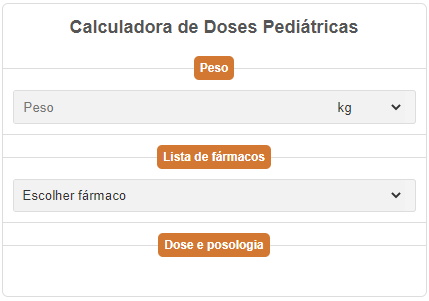
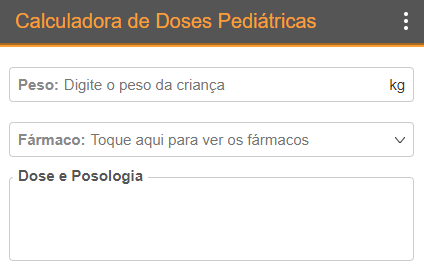
Substitui as imagens do Doseador de ARVs e da Calculadora de doses da página de Portfólio.

Changed region(s): [[0.0, 0.0, 1.0, 0.9851]]

diff --git a/paginas/portfolio.html b/paginas/portfolio.html
@@ -6,15 +6,15 @@
         <meta name="viewport" content="width=device-width, initial-scale=1.0">
         <title>Portfólio - Adérito Félix Quinamine</title>
         <meta name="robots" content="index, follow"/>
-        <meta name="description" content="Projectos - Totalizador de Resumo Mensal de Consultas, Totalizador de Resumo Mensal de HIV/SIDA, Doseador de Antirretrovirais, Calculadora de Doses Pediátricas." />
-        <meta name="keywords" content="Portfólio, Portfólio como Desenvolvedor Web, Projectos Web, Projectos de Programação, Totalizador de Resumo Mensal de Consultas, Totalizador de Resumo Mensal de HIV/SIDA, Doseador de Antirretrovirais, Calculadora de Doses Pediátricas" />
+        <meta name="description" content="Projectos - Totalizador de Resumo Mensal de Consultas, Totalizador de Resumo Mensal de HIV/SIDA, Totalizador de Resumo Mensal de SAAJ, Doseador de Antirretrovirais, Calculadora de Doses Pediátricas." />
+        <meta name="keywords" content="Portfólio, Portfólio como Desenvolvedor Web, Projectos Web, Projectos de Programação, Totalizador de Resumo Mensal de Consultas, Totalizador de Resumo Mensal de HIV/SIDA, Totalizador de Resumo Mensal de SAAJ, Doseador de Antirretrovirais, Calculadora de Doses Pediátricas" />
         <meta name="author" content="Adérito Félix Quinamine" />
 
         <!-- PARTILHA NAS REDES SOCIAIS -->
         <meta property="og:url" content="https://www.quinamine.github.io/aderito-felix-quinamine/paginas/curriculumvitae.html"/>
-        <meta property="og:title" content="Portfólio" />
-        <meta property="og:description" content="Projectos - Totalizador de Resumo Mensal de Consultas, Totalizador de Resumo Mensal de HIV/SIDA, Doseador de Antirretrovirais, Calculadora de Doses Pediátricas." />
-        <meta property="og:image" content="https://www.quinamine.github.io/aderito-felix-quinamine/imagens/#.png"/>
+        <meta property="og:title" content="Portfólio - Adérito Félix Quinamine" />
+        <meta property="og:description" content="Projectos - Totalizador de Resumo Mensal de Consultas, Totalizador de Resumo Mensal de HIV/SIDA, Totalizador de Resumo Mensal de SAAJ, Doseador de Antirretrovirais, Calculadora de Doses Pediátricas." />
+        <meta property="og:image" content="https://www.quinamine.github.io/aderito-felix-quinamine/imagens/totalizador-de-resumo-mensal-de-consultas.png"/>
        
         <!-- DESIGN -->
 		<link rel="stylesheet" href="../design/reset.css" />
@@ -62,7 +62,7 @@
                         <p>
                             <a href="https://quinamine.github.io/totalizador-de-resumo-mensal-de-saaj/index.html#sobre" target="_blank">Serviço online gratuito que auxilia na elaboração do resumo mensal de SAAJ, através do cálculo automático dos totais a partir dos dados inseridos pelo usuário (Profissional de Saúde. <span class="read-more">Ler&nbsp;mais...&raquo;</span></a>
                         </p>
-                        <a href="https://quinamine.github.io/totalizador-de-resumo-mensal-de-hiv-e-sida/index.html" target="_blank">Acessar Totalizador &raquo;</a>
+                        <a href="https://quinamine.github.io/totalizador-de-resumo-mensal-de-saaj/index.html" target="_blank">Acessar Totalizador &raquo;</a>
                     </div>
                 </section>
 
@@ -108,7 +108,7 @@
 
                     <a href="https://quinamine.github.io/tarv-pediatrico/index.html" target="_blank">
                         <figure>
-                            <img src="../imagens/doseador-de-arvs.png" alt="Doseador de Antirretrovirais"/>
+                            <img src="../imagens/doseador-de-arvs.png" alt="Doseador de Antirretrovirais" class="border-1"/>
                         </figure>
                     </a>  
                     <div class="description">   
@@ -125,7 +125,7 @@
 
                     <a href="https://quinamine.github.io/calculadora-de-doses-pediatricas/index.html" target="_blank">
                         <figure>
-                            <img src="../imagens/calculadora-de-doses.png" alt="Calculadora de Doses Pediátricas"/>
+                            <img src="../imagens/calculadora-de-doses.png" alt="Calculadora de Doses Pediátricas" class="border-1"/>
                         </figure> 
                     </a>
                     
@@ -140,17 +140,17 @@
             <aside>
                 <h3>Formação Académica</h3>
                 <ul>
-                    <li><b>2014</b> – Concluiu a 12ª – classe do SNE na Escola Secundária de Pemba;</li>
-                    <li><b>2012</b> – Concluiu o Nível Básico (10ª – Classe) do SNE na Escola Secundária de Pemba;</li>
-                    <li><b>2009</b> – Concluiu a 7ª – classe na Escola Primária Completa de Mulapane.</li>
+                    <li><b>2014</b> – concluiu a 12ª classe do SNE na Escola Secundária de Pemba;</li>
+                    <li><b>2012</b> – concluiu o nível básico (10ª classe) do SNE na Escola Secundária de Pemba;</li>
+                    <li><b>2009</b> – concluiu a 7ª classe na Escola Primária Completa de Mulapane.</li>
                 </ul>
                 <h3>Formação Profissional</h3>
                 <ul>
-                    <li><b>2018</b> - Concluiu o curso de Técnicos de Medicina Geral (Nível Médio) no CFPS-Natite em Pemba.</li>
+                    <li><b>2018</b> - concluiu o curso de Técnicos de Medicina Geral (Nível Médio) no CFPS-Natite em Pemba.</li>
                 </ul>
                 <h3>Curso(s) de curta duração</h3>
                 <ul>
-                    <li><b>2014</b> - Frequentou o curso de Informática Básica na GAJM Consultores.</li>
+                    <li><b>2014</b> - frequentou o curso de Informática básica na GAJM Consultores.</li>
                 </ul>
             </aside>
         </main>
@@ -204,9 +204,14 @@
                     <h4>Projectos</h4>
                     <ul>
                         <li><a href="https://quinamine.github.io/totalizador-de-resumo-mensal-de-consultas/index.html" target="_blank">Totalizador de Resumo Mensal de Consultas</a></li>
+
                         <li><a href="https://quinamine.github.io/totalizador-de-resumo-mensal-de-hiv-e-sida/index.html" target="_blank">Totalizador de Resumo Mensal de HIV/SIDA</a></li>
+
+                        <li><a href="https://quinamine.github.io/totalizador-de-resumo-mensal-de-saaj/index.html" target="_blank">Totalizador de Resumo Mensal de SAAJ</a></li>
+
                         <li><a href="https://quinamine.github.io/tarv-pediatrico/index.html" target="_blank">Doseador de Antirretrovirais</a></li>
-                        <li><a href="https://quinamine.github.io/calculadora-de-doses-pediatricas/index.html" target="_blank">Calculadora de Doses Pediátricas</a></li>
+                        
+                        <li class="sem-margem"><a href="https://quinamine.github.io/calculadora-de-doses-pediatricas/index.html" target="_blank">Calculadora de Doses Pediátricas</a></li>
                     </ul>
                 </div>
             </div>

diff --git a/paginas/curriculumvitae.html b/paginas/curriculumvitae.html
@@ -12,7 +12,7 @@
 
         <!-- PARTILHA NAS REDES SOCIAIS -->
         <meta property="og:url" content="https://www.quinamine.github.io/aderito-felix-quinamine/paginas/curriculumvitae.html"/>
-        <meta property="og:title" content="Curriculum Vitae" />
+        <meta property="og:title" content="Curriculum Vitae - Adérito Félix Quinamine" />
         <meta property="og:description" content="2018 - Concluiu o curso de Técnicos de Medicina Geral (Nível Médio) no Centro de Formação de Saúde de Natite em Pemba." />
         <meta property="og:image" content="https://www.quinamine.github.io/aderito-felix-quinamine/imagens/certificado-de-tmg.png"/>
        
@@ -109,17 +109,17 @@
             <aside>
                 <h3>Formação Académica</h3>
                 <ul>
-                    <li><b>2014</b> – Concluiu a 12ª – classe do SNE na Escola Secundária de Pemba;</li>
-                    <li><b>2012</b> – Concluiu o Nível Básico (10ª – Classe) do SNE na Escola Secundária de Pemba;</li>
-                    <li><b>2009</b> – Concluiu a 7ª – classe na Escola Primária Completa de Mulapane.</li>
+                    <li><b>2014</b> – concluiu a 12ª classe do SNE na Escola Secundária de Pemba;</li>
+                    <li><b>2012</b> – concluiu o nível básico (10ª classe) do SNE na Escola Secundária de Pemba;</li>
+                    <li><b>2009</b> – concluiu a 7ª classe na Escola Primária Completa de Mulapane.</li>
                 </ul>
                 <h3>Formação Profissional</h3>
                 <ul>
-                    <li><b>2018</b> - Concluiu o curso de Técnicos de Medicina Geral (Nível Médio) no CFPS-Natite em Pemba.</li>
+                    <li><b>2018</b> - concluiu o curso de Técnicos de Medicina Geral (Nível Médio) no CFPS-Natite em Pemba.</li>
                 </ul>
                 <h3>Curso(s) de curta duração</h3>
                 <ul>
-                    <li><b>2014</b> - Frequentou o curso de Informática Básica na GAJM Consultores.</li>
+                    <li><b>2014</b> - frequentou o curso de Informática básica na GAJM Consultores.</li>
                 </ul>
             </aside>
         </main>
@@ -173,9 +173,14 @@
                     <h4>Projectos</h4>
                     <ul>
                         <li><a href="https://quinamine.github.io/totalizador-de-resumo-mensal-de-consultas/index.html" target="_blank">Totalizador de Resumo Mensal de Consultas</a></li>
+
                         <li><a href="https://quinamine.github.io/totalizador-de-resumo-mensal-de-hiv-e-sida/index.html" target="_blank">Totalizador de Resumo Mensal de HIV/SIDA</a></li>
+
+                        <li><a href="https://quinamine.github.io/totalizador-de-resumo-mensal-de-saaj/index.html" target="_blank">Totalizador de Resumo Mensal de SAAJ</a></li>
+
                         <li><a href="https://quinamine.github.io/tarv-pediatrico/index.html" target="_blank">Doseador de Antirretrovirais</a></li>
-                        <li><a href="https://quinamine.github.io/calculadora-de-doses-pediatricas/index.html" target="_blank">Calculadora de Doses Pediátricas</a></li>
+                        
+                        <li class="sem-margem"><a href="https://quinamine.github.io/calculadora-de-doses-pediatricas/index.html" target="_blank">Calculadora de Doses Pediátricas</a></li>
                     </ul>
                 </div>
             </div>

diff --git a/design/cv.css b/design/cv.css
@@ -34,6 +34,8 @@ section.album figure img {
     max-width: initial;
 }
 
+/* VISUALIZADOR DAS IMAGENS */
+
 div.quinamine-pic-viewer {
     background-color: var(--dark);
     width: 100%;
@@ -48,6 +50,8 @@ div.quinamine-pic-viewer {
 div.quinamine-pic-viewer.on {
     display: block;
 }
+
+/* CABECALHO DO VISUALIZADOR */
 
 div.quinamine-pic-viewer header {
     border: none;
@@ -78,42 +82,45 @@ div.quinamine-pic-viewer header div.icons {
     align-items: center;
 }
 
-div.quinamine-pic-viewer header button,
+div.quinamine-pic-viewer header button {
+    display: block;
+    min-width: 40px;
+    padding: 0;
+    border-radius: 2px;
+    background-color: inherit;
+    color: var(--yt-text-color);
+    font-size: 28px;
+}
+
+div.quinamine-pic-viewer header button:hover {
+    background-color: var(--gray-2-dark);
+}
+
+div.quinamine-pic-viewer header button.close-qpv:hover {
+    background-color: var(--danger-color);
+    color: var(--yt);
+}
+
+div.quinamine-pic-viewer header output {
+    min-width: 50px;
+    text-align: center;
+}
+
+div.quinamine-pic-viewer header button.zoom-in,
+div.quinamine-pic-viewer header button.zoom-out,
 div.quinamine-pic-viewer header output {
     display: none;
 }
 
-div.quinamine-pic-viewer header button.close-qpv {
-    display: initial;
-}
-
 @media screen and (min-width: 1024px) {
-    div.quinamine-pic-viewer header button {
-        display: initial;
-        padding: 0;
-        min-width: 40px;
-        display: block;
-        border-radius: 2px;
-        background-color: inherit;
-        color: var(--yt-text-color);
-        font-size: 28px;
-    }
-
-    div.quinamine-pic-viewer header button:hover {
-        background-color: var(--gray-2-dark);
-    }
-
-    div.quinamine-pic-viewer header button.close-qpv:hover {
-        background-color: var(--danger-color);
-        color: var(--yt);
-    }
-
+    div.quinamine-pic-viewer header button.zoom-in,
+    div.quinamine-pic-viewer header button.zoom-out,
     div.quinamine-pic-viewer header output {
         display: initial;
-        min-width: 50px;
-        text-align: center;
     }
 }
+
+/*  CORPO DO VISUALIZADOR */
 
 div.quinamine-pic-viewer figure.frame {
     max-height: 100%;
@@ -128,21 +135,24 @@ div.quinamine-pic-viewer figure.frame {
 
 @media screen and (min-width: 1024px) {
     div.quinamine-pic-viewer figure.frame::-webkit-scrollbar {
-      width: 10px;
-      height: 10px;
-      opacity: 0;
-      transition-duration: 250ms;
-      opacity: 0;
+        width: 10px;
+        height: 10px;
+        opacity: 0;
+        transition-duration: 250ms;
+        opacity: 0;
     }
+
     div.quinamine-pic-viewer figure.frame::-webkit-scrollbar-thumb {
-      border-radius: 50px;
-      background-color: var(--gray-2-dark);
+        border-radius: 50px;
+        background-color: var(--gray-2-dark);
     }
+    
     div.quinamine-pic-viewer figure.frame::-webkit-scrollbar-thumb:hover {
-      background-color: var(--gray-dark);
+        background-color: var(--gray-dark);
     }
+
     div.quinamine-pic-viewer figure.frame::-webkit-scrollbar-thumb:active {
-      background-color: var(--gray-2-dark);
+        background-color: var(--gray-2-dark);
     }
 }
 

diff --git a/index.html b/index.html
@@ -91,17 +91,17 @@
             <aside>
                 <h3>Formação Académica</h3>
                 <ul>
-                    <li><b>2014</b> – Concluiu a 12ª – classe do SNE na Escola Secundária de Pemba;</li>
-                    <li><b>2012</b> – Concluiu o Nível Básico (10ª – Classe) do SNE na Escola Secundária de Pemba;</li>
-                    <li><b>2009</b> – Concluiu a 7ª – classe na Escola Primária Completa de Mulapane.</li>
+                    <li><b>2014</b> – concluiu a 12ª classe do SNE na Escola Secundária de Pemba;</li>
+                    <li><b>2012</b> – concluiu o nível básico (10ª classe) do SNE na Escola Secundária de Pemba;</li>
+                    <li><b>2009</b> – concluiu a 7ª classe na Escola Primária Completa de Mulapane.</li>
                 </ul>
                 <h3>Formação Profissional</h3>
                 <ul>
-                    <li><b>2018</b> - Concluiu o curso de Técnicos de Medicina Geral (Nível Médio) no CFPS-Natite em Pemba.</li>
+                    <li><b>2018</b> - concluiu o curso de Técnicos de Medicina Geral (Nível Médio) no CFPS-Natite em Pemba.</li>
                 </ul>
                 <h3>Curso(s) de curta duração</h3>
                 <ul>
-                    <li><b>2014</b> - Frequentou o curso de Informática Básica na GAJM Consultores.</li>
+                    <li><b>2014</b> - frequentou o curso de Informática básica na GAJM Consultores.</li>
                 </ul>
             </aside>
         </main>
@@ -161,7 +161,8 @@
                         <li><a href="https://quinamine.github.io/totalizador-de-resumo-mensal-de-saaj/index.html" target="_blank">Totalizador de Resumo Mensal de SAAJ</a></li>
 
                         <li><a href="https://quinamine.github.io/tarv-pediatrico/index.html" target="_blank">Doseador de Antirretrovirais</a></li>
-                        <li><a href="https://quinamine.github.io/calculadora-de-doses-pediatricas/index.html" target="_blank">Calculadora de Doses Pediátricas</a></li>
+
+                        <li class="sem-margem"><a href="https://quinamine.github.io/calculadora-de-doses-pediatricas/index.html" target="_blank">Calculadora de Doses Pediátricas</a></li>
                     </ul>
                 </div>
             </div>

diff --git a/design/layout.css b/design/layout.css
@@ -18,12 +18,6 @@
     --gray-2-dark: #222222;
 }
 
-/*@media screen and (max-width: 1023px) {
-    html {
-      font-size: 107.1428%;
-    }
-}*/
-
 body {
     font: 15px Arial, Helvetica, sans-serif;
     color: var(--blc-text-color);
@@ -245,22 +239,22 @@ main aside {
     }
 
     main aside {
-      display: block;
-      max-height: 500px;
-      overflow: auto;
-      position: -webkit-sticky;
-      position: sticky;
-      top: 53px;
+        display: block;
+        max-height: 500px;
+        overflow: auto;
+        position: -webkit-sticky;
+        position: sticky;
+        top: 53px;
     }
 
     main aside h3 {
-      font-size: inherit;
-      border-bottom: 1px solid var(--border-color);
-      padding-bottom: 8px;
+        font-size: inherit;
+        border-bottom: 1px solid var(--border-color);
+        padding-bottom: 8px;
     }
 
     main aside h3:first-child {
-      margin-top: 0;
+        margin-top: 0;
     }
 }
 
@@ -294,8 +288,14 @@ section.skills ul li:last-child {
     margin-bottom: 20px;
 }
 
+section.skills ul li.sem-margem {
+    margin-bottom: 0;
+}
+
 section.skills a:link, section.skills a:visited {
     color: var(--yt-text-color);
+    display: block;
+    width: 100%;
 }
 
 section.skills a:hover {

diff --git a/design/portfolio.css b/design/portfolio.css
@@ -17,6 +17,7 @@ div.main-content section {
 
 div.main-content section h2 {
     font-size: 18px;
+    margin-top: 0;
     margin-bottom: 2px;
 }
 
@@ -26,6 +27,11 @@ div.main-content section > span {
     margin-bottom: 10px;
     padding: 2px;
     color: var(--gray-dark);
+}
+
+div.main-content section img.border-1 {
+    border: 1px solid var(--border-color);
+    border-radius: 5px;
 }
 
 div.main-content section a {
